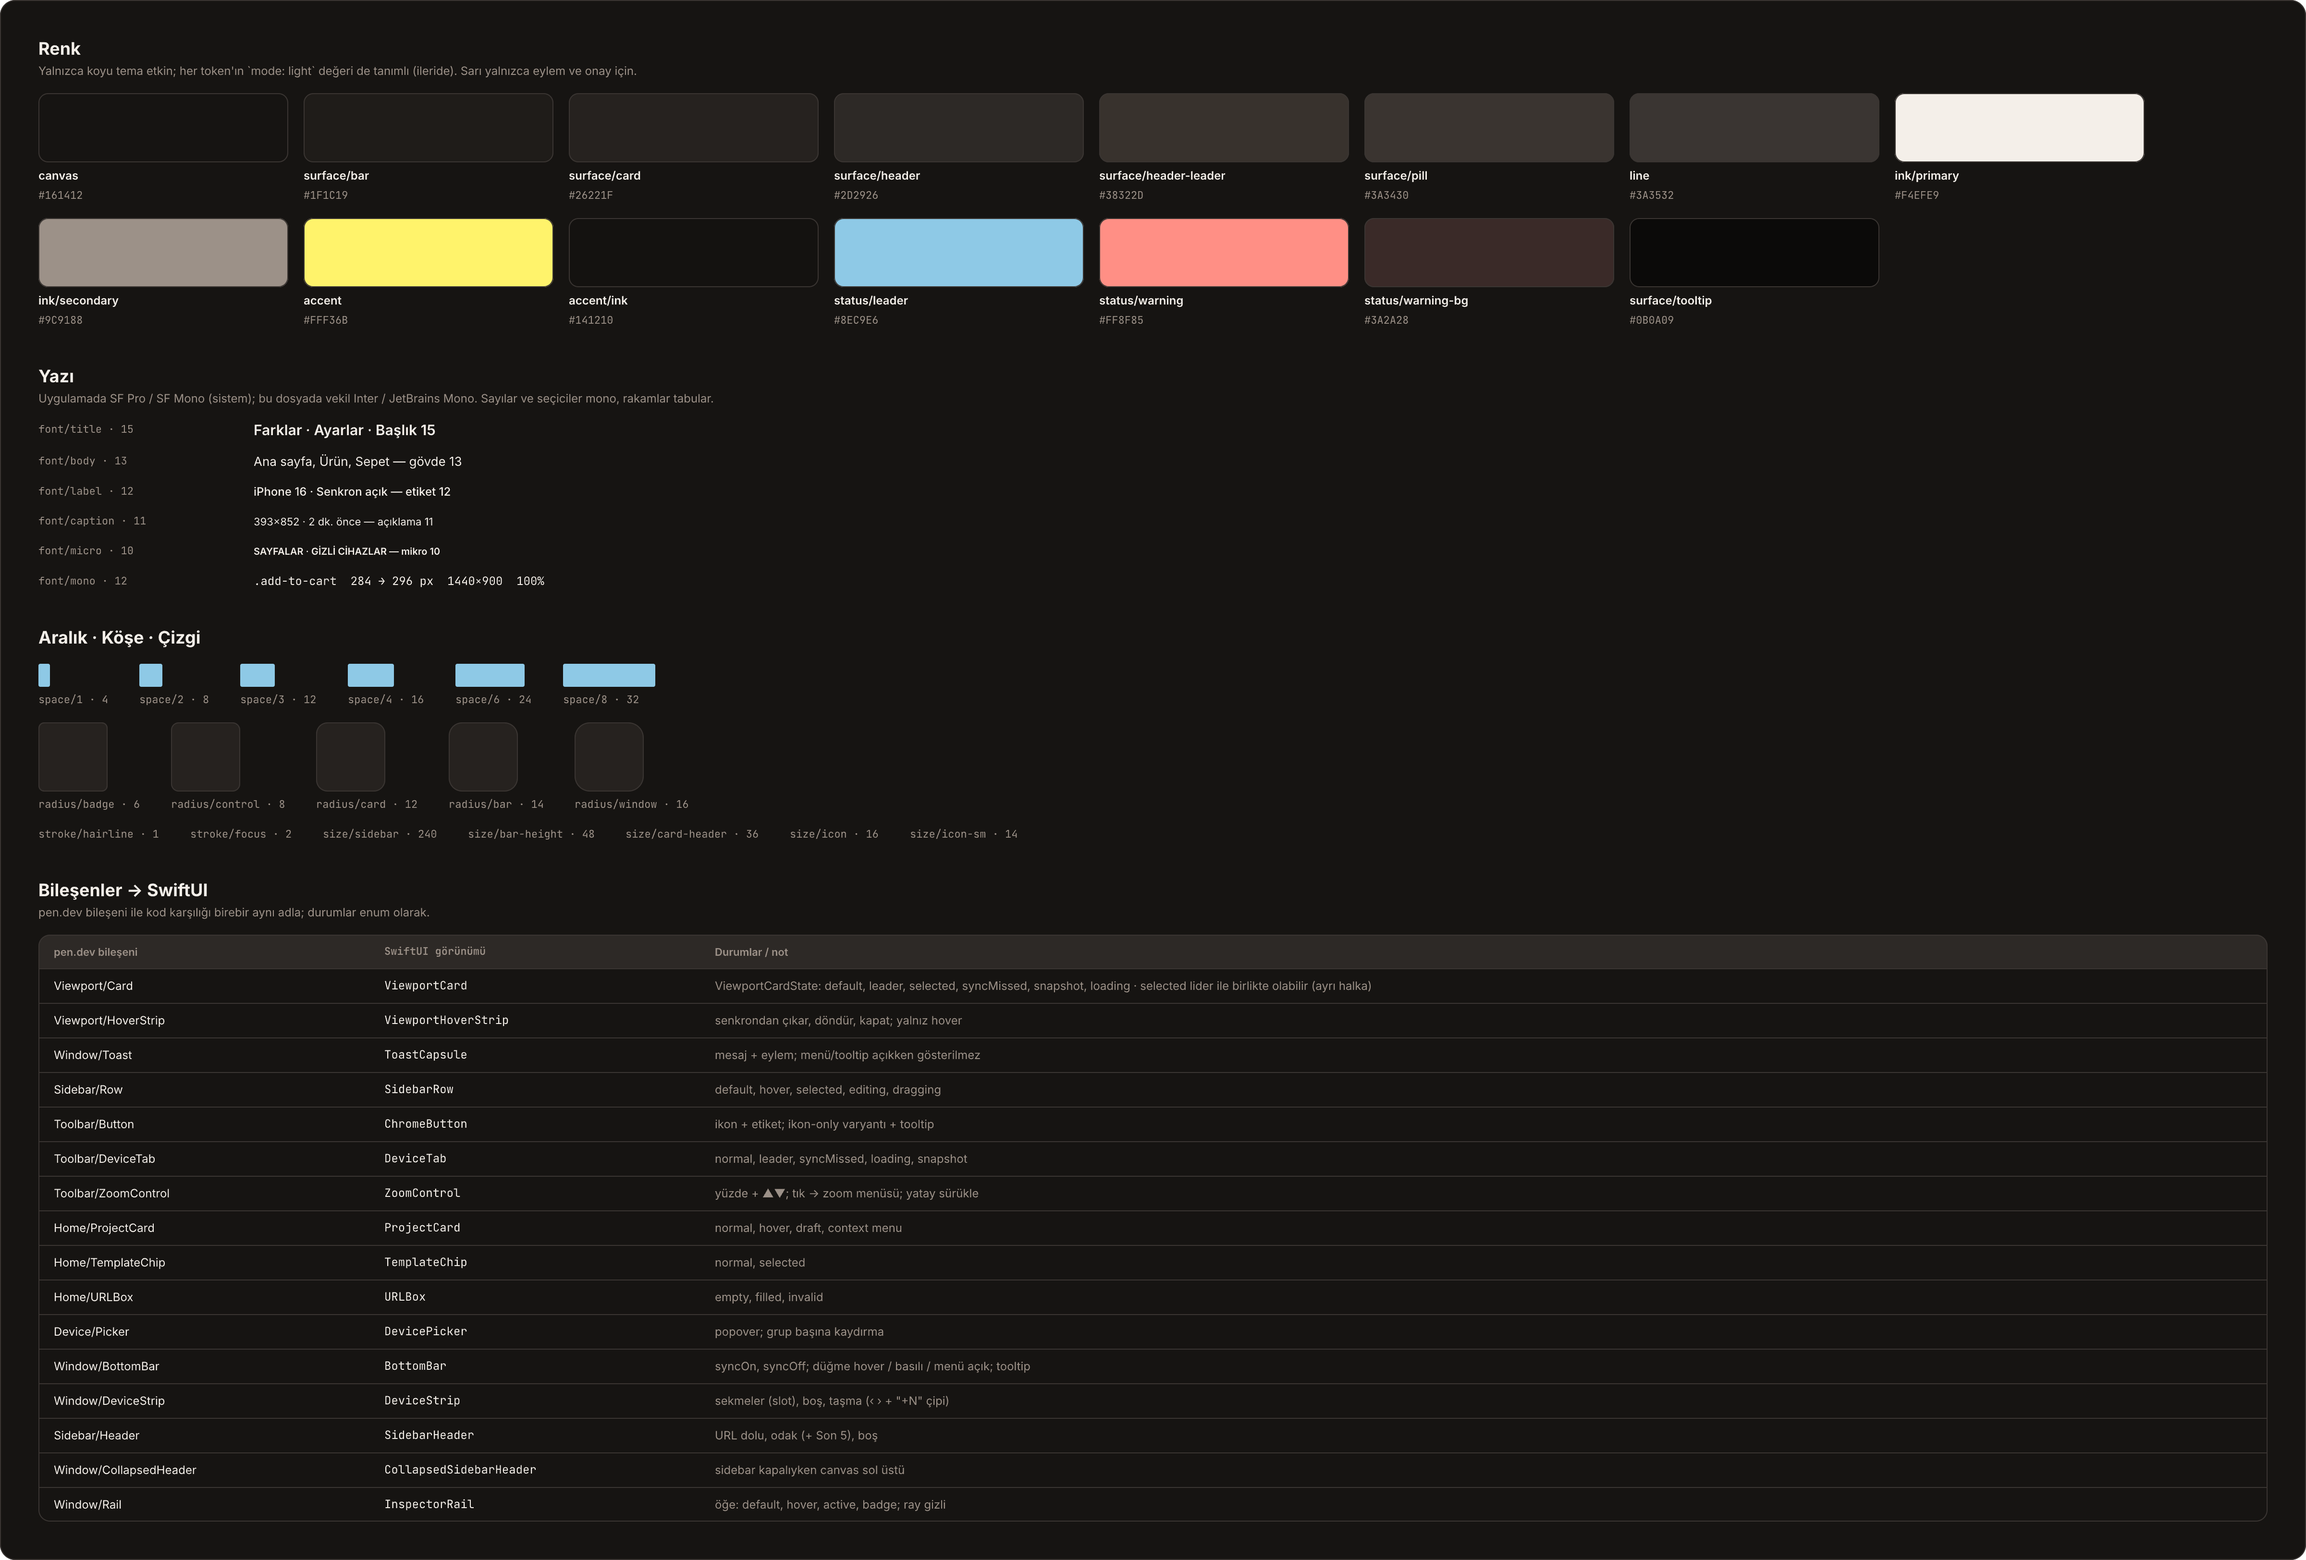
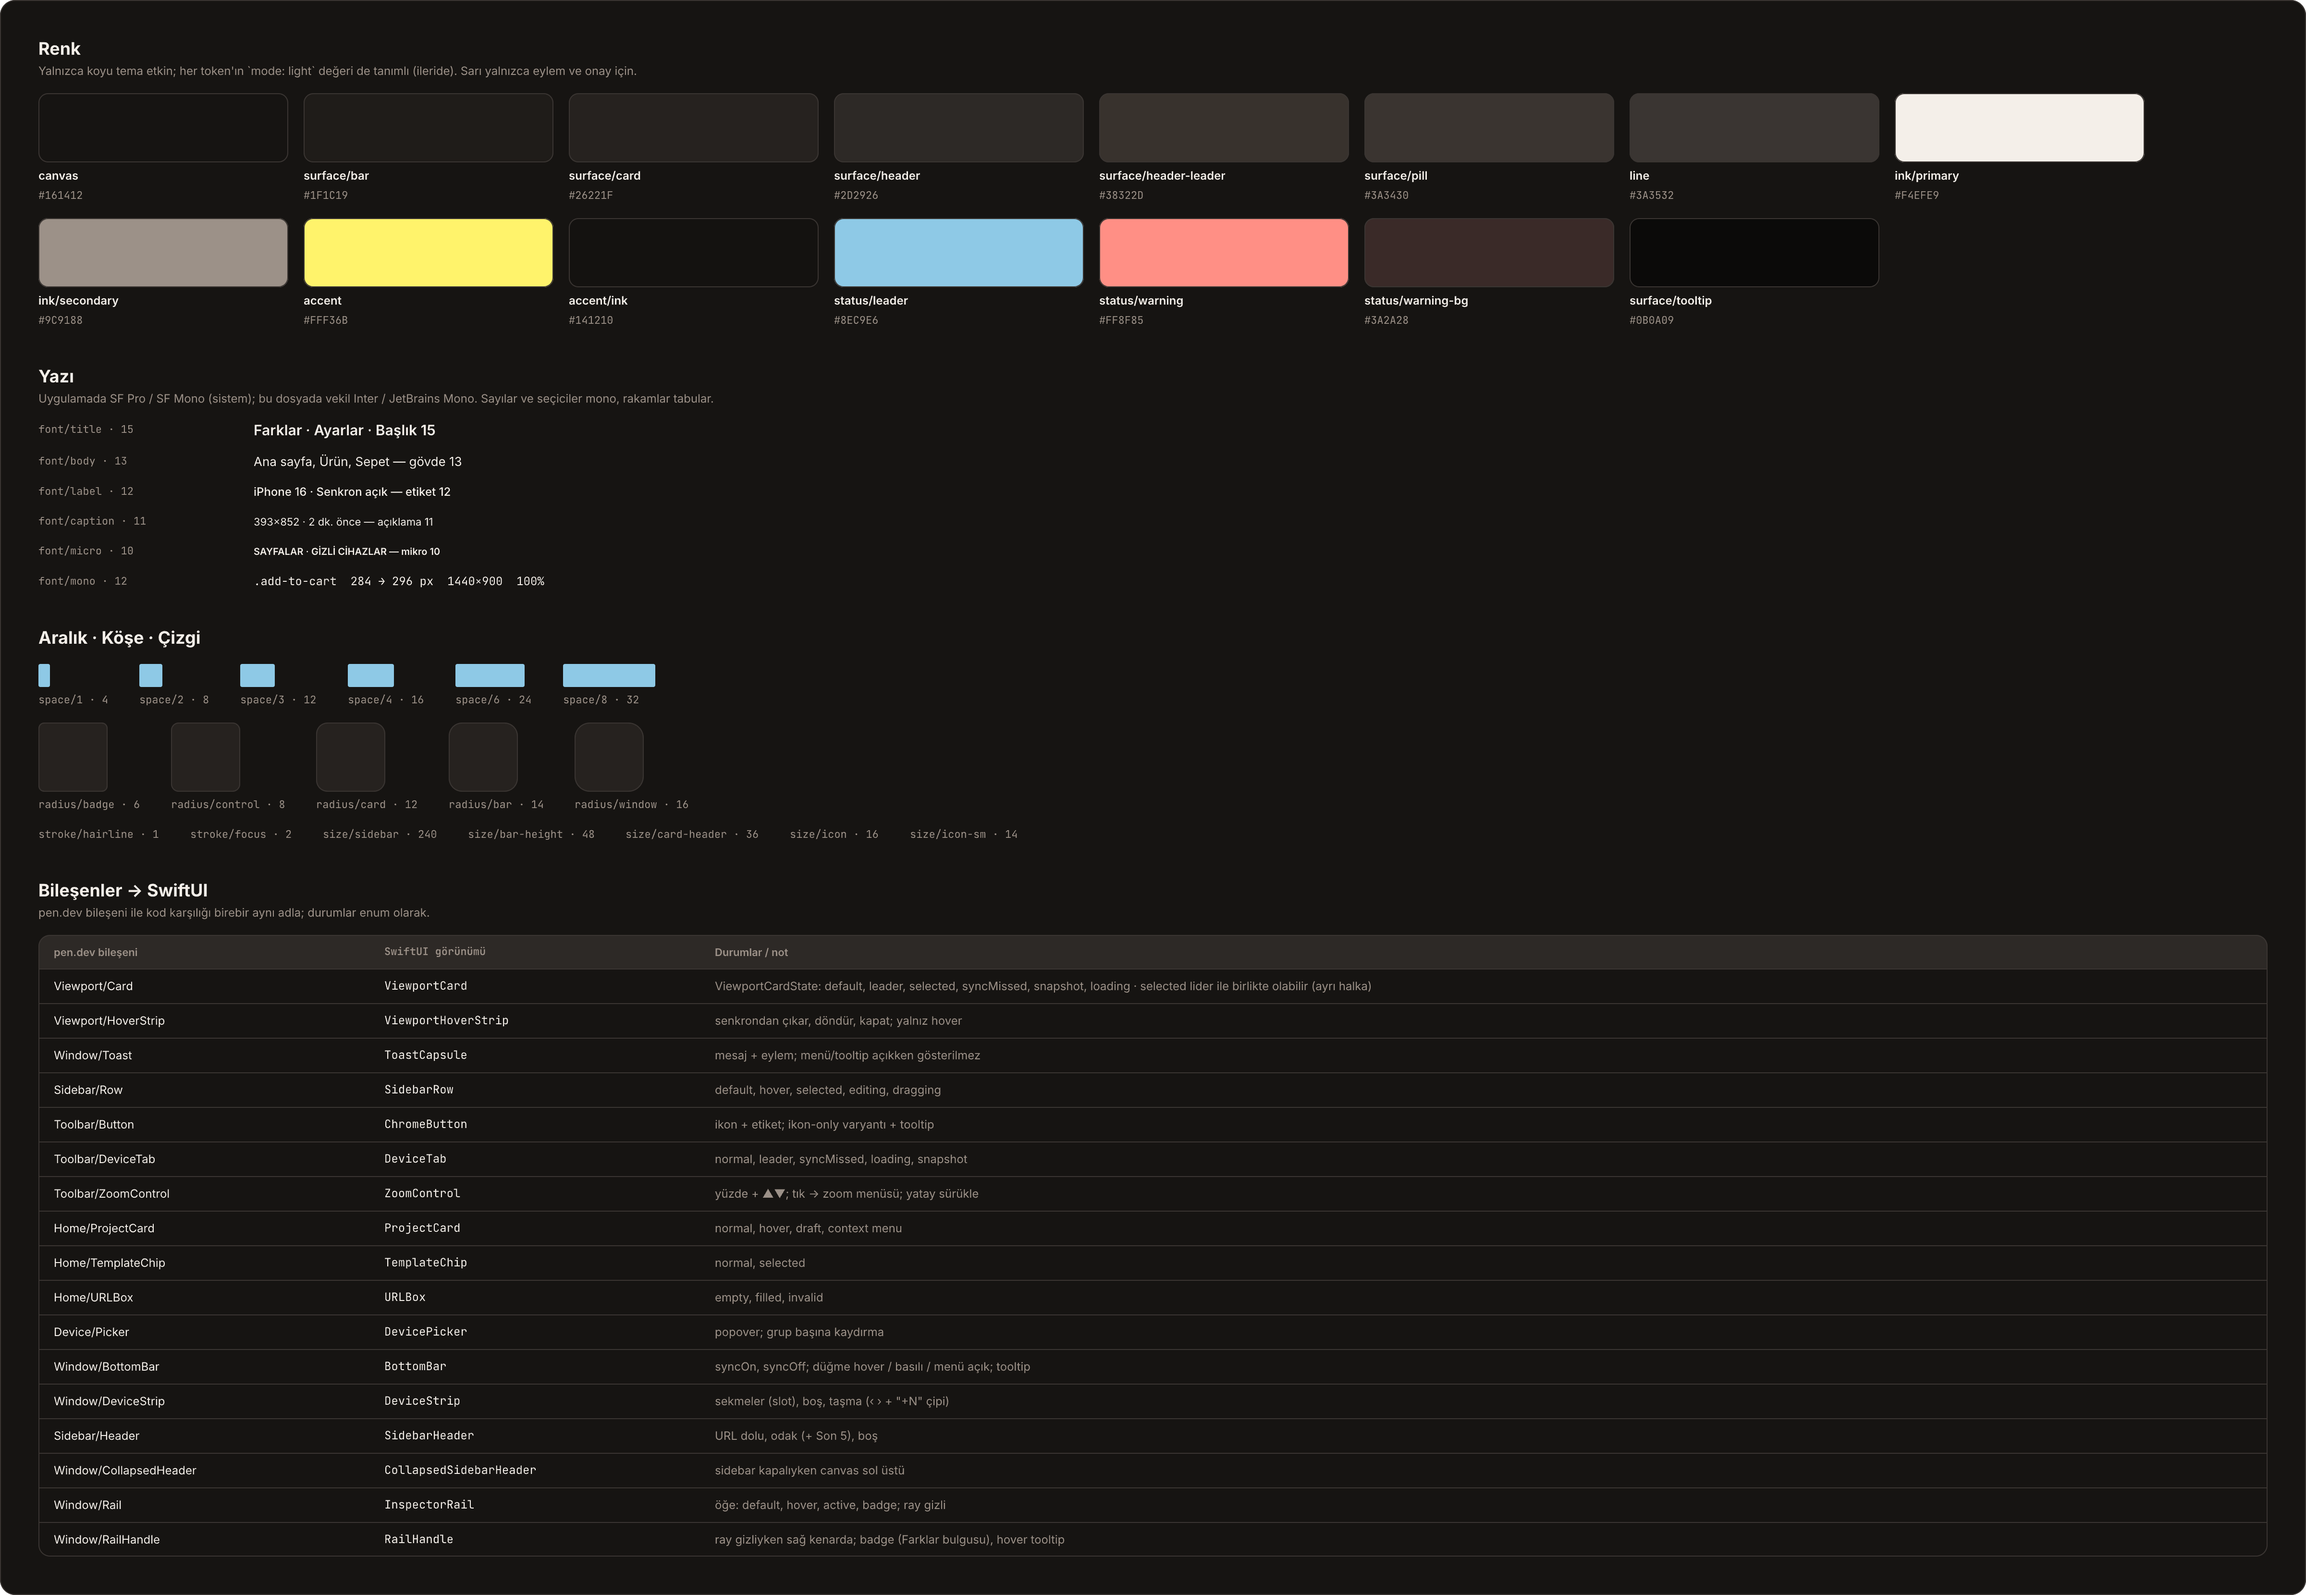
Apply recommended options: settings tabs, rail handle, sidebar 240

diff --git a/design/HANDOFF.md b/design/HANDOFF.md
@@ -28,6 +28,7 @@
 - Ayarlar ayrı penceresi kaldırıldı (kullanıcı sildi, karar: yalnızca sağ panel); ayarlar panelinden ⧉ kaldırıldı. Giriş ekranında ⚙ + kayan panel (`Home Window · Ayarlar paneli`); ray proje penceresinde varsayılan açık, daraltılabilir.
 - Dosya düzeni: asıl tasarımlar x ≥ 0; keşifler "Archive ·" önekiyle solda (x < −400), açık tema "Future ·" önekiyle arşivin altında. Kart `selected` kararı: S3 çift halka (`Viewport States` içinde `selected` ve `selected + leader` sütunları).
 - Pencere chrome'u bileşen (2026-10-10): `Sidebar/Header`, `Window/CollapsedHeader`, `Window/DeviceStrip` (sekmeler slot), `Window/BottomBar`, `Window/Rail`. Tüm proje penceresi ve dev panel frame'leri instance kullanır; değişiklik 00b'deki ana kopyada. Spec: `Chrome Spec` (05), `chrome-spec@2x.png`. Token düzeltmesi: sidebar 240, iten panel 320.
+- 2026-10-11: Ayarlar sekmeleri (Cihazlar C1, MCP, Hesap) ve ray tutamacı (`Window/RailHandle`, `Project Window · Ray gizli`) asıl ekranlarda; sidebar 240 kesin. `TEMP · Açık sorular` silindi; `TEMP · Medya duraklatma açıklaması` duruyor.
 - Bilinen eksikler: `viewportix.lib.pen` kütüphane dönüşümü yapılmadı (pen.dev'de elle); Icon Composer dosyası yok; HTML/CSS ölçü dışa aktarımı yapılmadı (token dosyaları var).
 
 ## Sıradaki iş

diff --git a/design/KOD-OTURUMU-ISLERI.md b/design/KOD-OTURUMU-ISLERI.md
@@ -100,3 +100,9 @@ DESIGN.md §3.2 sonundaki **etkileşim tablosu** tetikleyici → etki → hareke
 ## 10. Medya duraklatma varsayılanı (2026-10-10, kullanıcı kararı)
 
 - [ ] "Arka Plandaki Medyayı Duraklat" **varsayılan açık** gelsin (senin girdinde varsayılan kapalıydı). İlk açılışta tikli; kullanıcı kapatırsa tercih saklanır. Görünüm menüsü maddesi ve Ayarlar › Genel › PROJE toggle'ı aynı değeri gösterir. DESIGN.md §3.3, §4.
+
+## 11. Ayarlar sekmeleri, ray tutamacı (2026-10-11)
+
+- [ ] Ayarlar › Cihazlar, MCP, Hesap sekmeleri çizildi: DESIGN.md §3.3, `design/exports/window-project-settings-{devices,mcp,account}@2x.png`. Cihazlar iki satırlı liste + tür süzgeci; MCP sekmesi M7'ye kadar gizli kalabilir.
+- [ ] Ray gizliyken `RailHandle` (24×56, sağ kenarda üstten 16): tık / ⌥⌘0 rayı geri getirir; Farklar bulgusu varken mercan nokta. `window-project-rail-hidden@2x.png`, etkileşim tablosu §3.3.
+- [ ] Sidebar 240 kesin (`Size.sidebar`). Boş URL alanı ipucu "Adres yaz ya da yapıştır".

diff --git a/design/notlar/2026-10-11.md b/design/notlar/2026-10-11.md
@@ -1,0 +1,3 @@
+# 2026-10-11 · Tasarım oturumu
+
+- Kullanıcı: önerilerin hepsini asıla aktar, MCP ve Hesap taslaktaki gibi. Kararlar: Cihazlar C1, R2 tutamaç, sidebar 240, URL ipucu "Adres yaz ya da yapıştır". Yeni frame'ler (02 satırı, y=1900): `Project Window · Ayarlar › Cihazlar` (dMDOK, x=9360), `› MCP` (R0VEg, 10920), `› Hesap` (P8hJd5, 12480), `Project Window · Ray gizli` (O7JgxK, 14040). Yeni bileşen `Window/RailHandle` (vDAMf, 00b). Chrome Spec ray bölümüne "Gizli · tutamaç" durumu; Tokens tablosuna RailHandle satırı. `TEMP · Açık sorular` ve PNG'si silindi. **İşlendi** (DESIGN.md §3.3, §4, §6; KOD-OTURUMU-ISLERI §11).
